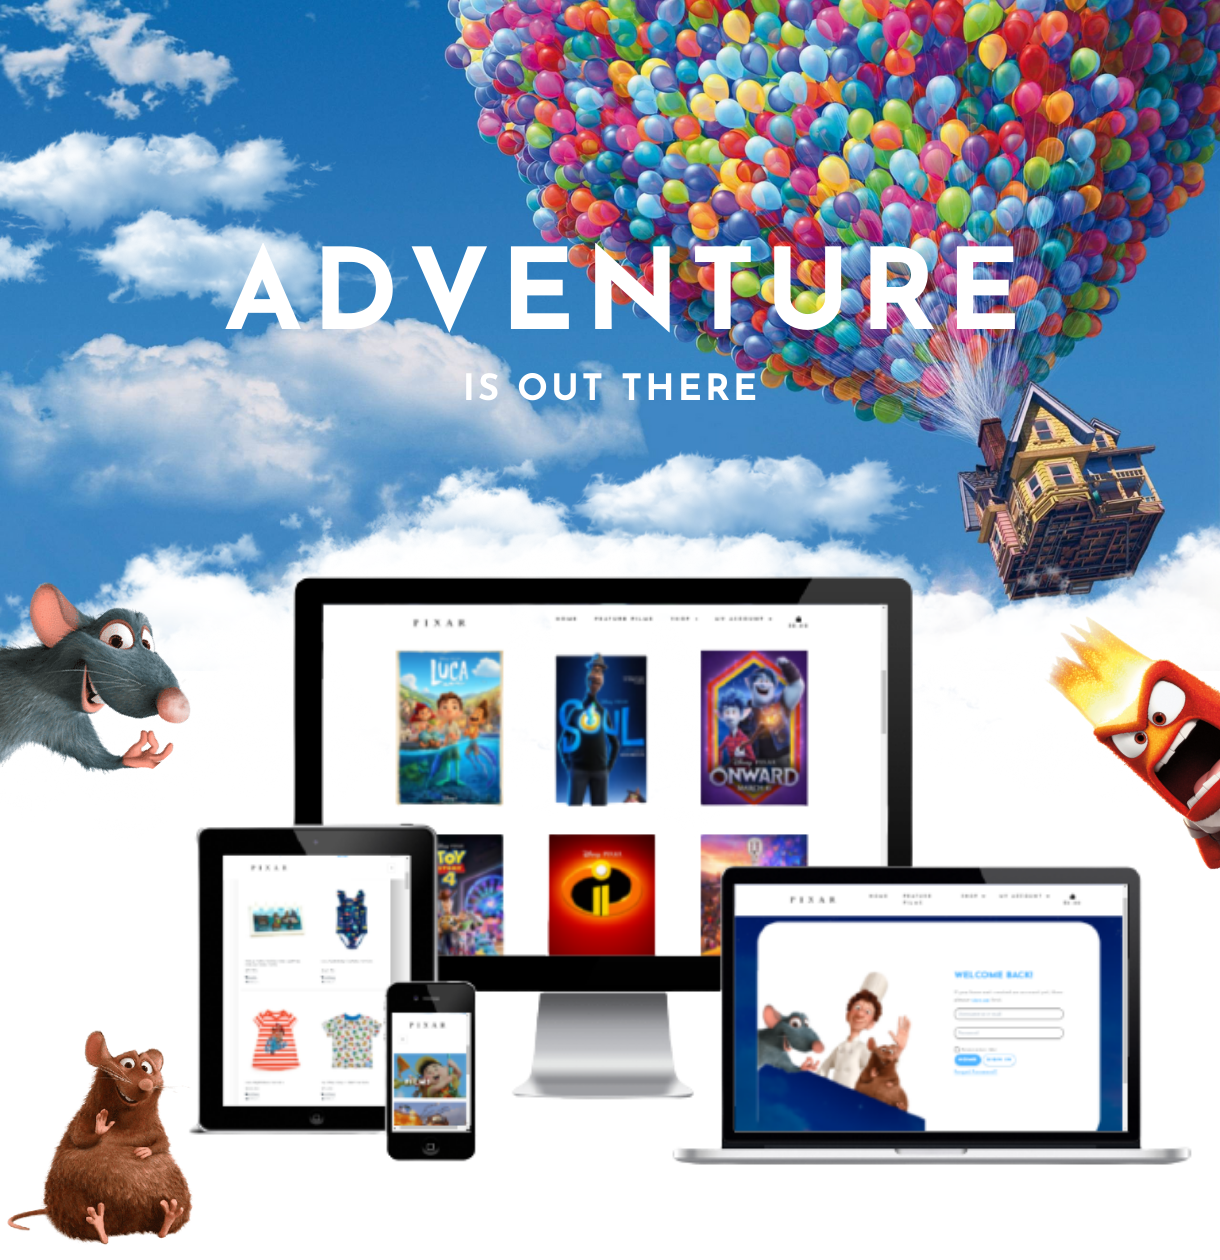
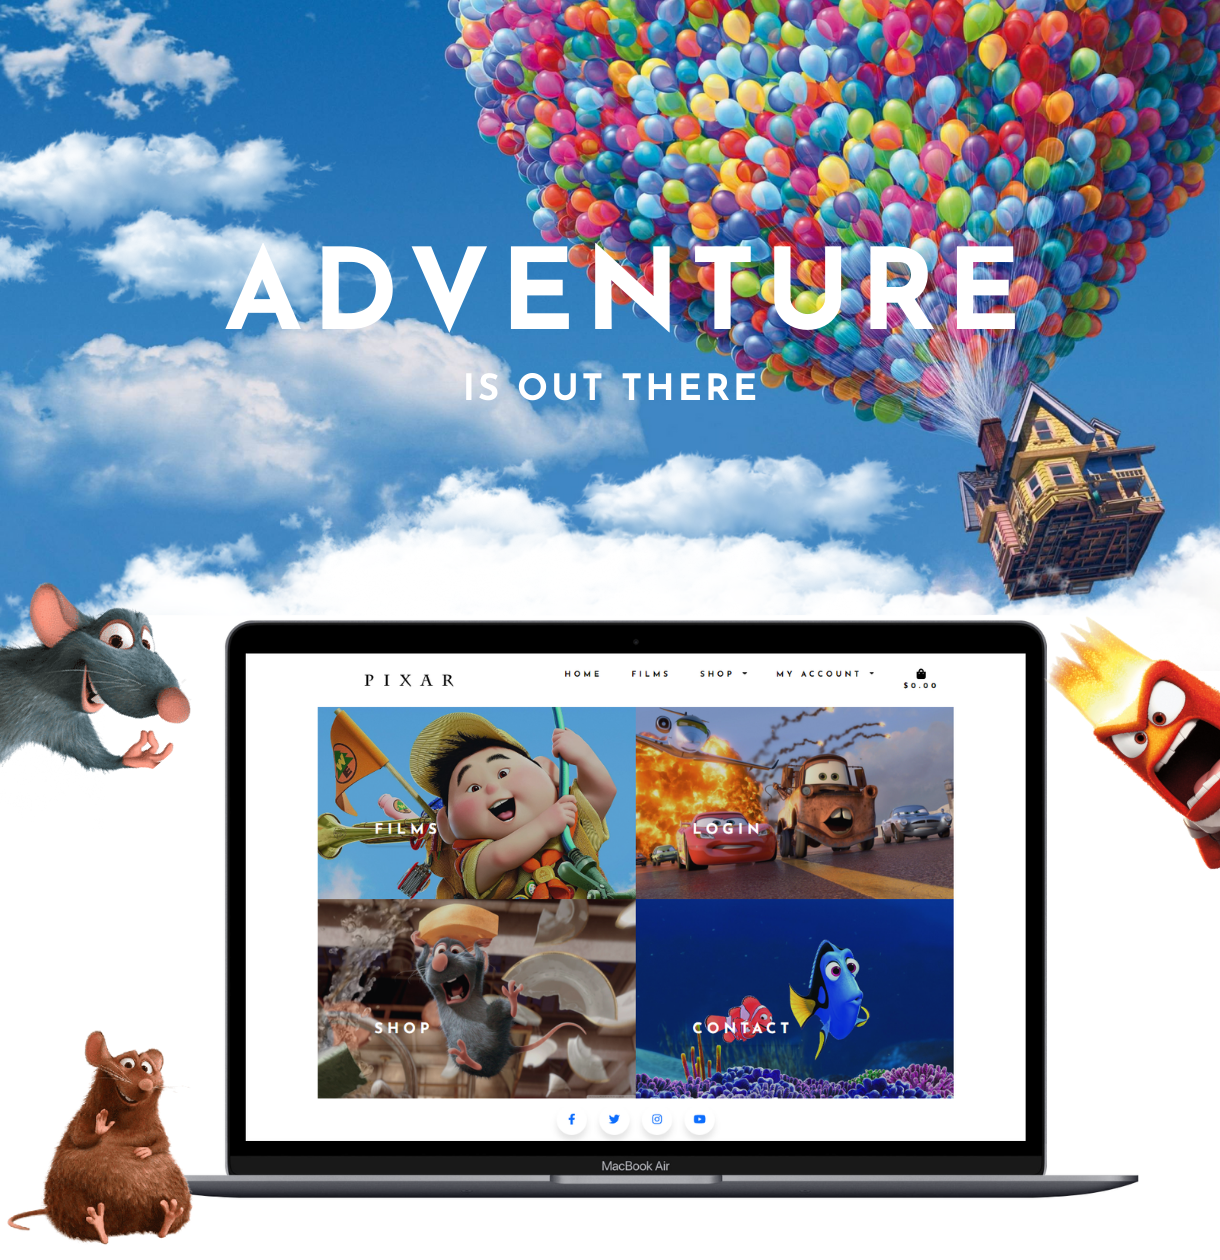
finished readme, added spell check corrections

Changed region(s): [[0.1557, 0.4333, 0.9656, 0.9595], [0.1246, 0.5571, 0.1557, 0.5881]]

diff --git a/bag/templates/bag/bag.html b/bag/templates/bag/bag.html
@@ -146,7 +146,6 @@
             {% endif %}
         </div>
     </div>
-</div>
 {% endblock %}
 </div>
 {% block postloadjs %}

diff --git a/README.md b/README.md
@@ -1,30 +1,9 @@
-MAIN IMAGE
+<img src="readme-docs/README-hero.png">
 
-[Live Site](https://pixar-ecommerce.herokuapp.com/)
 
 # About
 
-This website is based off of the one and only, Disney Pixar site. Ive always been a fan of Pixar's website as its simple, sleek and minimal while still bringing in their touch of magic and nostalgia from their films. 
-
-# Table of Contents
-
-
-1. - [User Experience](#UX)
-        - [The Strategy Plane](##The-Strategy-Plane)
-        - [User Stories](###User-Stories)
-    
-    ii. [The Scope Plane](## The Scope Plane)
-    iii. [The Structure Plane](## The Structure Plane)
-    iv. [The Skeleton Plane](## The Skeleton Plane)
-        - [Wireframes]()
-    v. [The Surface Plane](## The Surface Plane)
-        - [Mockups]()
-        - [Color Scheme](### Color Scheme)
-        - [Typography](### Typography)
-
-2. [Features](# Features)
-    - [Features Accross The Site](## Features Accross The Site)
-    - [Features Specific To Pages](## Features Specific To Pages)
+This website is based off of the one and only, Disney Pixar site. Ive always been a fan of Pixar's website as its simple, sleek and minimal while still bringing in their touch of magic and nostalgia from their films. The [Live Site](https://pixar-ecommerce.herokuapp.com/) can be viewed here.
 
 
 # The Strategy Plane
@@ -43,7 +22,7 @@ Pixar's film taget audience are very wide as its a universal studio that everyon
 
 As part of the planning process for the strategy plane, i find it helpful to plan out which features are of most importance to include in the project on a small scale of 1-3 (3 being the most important.) By doing this technique, i am able to focus more on the higher ranked features and work my way down the table.
 
-FEATURES IMAGE
+<img src="readme-docs/features.png">
 
 ## User Stories
 
@@ -74,12 +53,11 @@ FEATURES IMAGE
     - Delete items that are no longer for sale.
 
 ## The Scope Plane
-- ### The minimal Product for my project is an e-commerce site with the following features:
+- ### The minimal end Product for my project is an e-commerce site with the following features:
     - A payement system
     - A profile page
     - A products page
     - Authorization
-- Additional Features can be seen in the [Features]() section.
 
 ## The Structure Plane
 The structure of my site is outlined below.
@@ -122,13 +100,13 @@ The structure of my site is outlined below.
     - The profile.html template displays the user's profile to the user. It contain their saved delivery details and order history. This can only be seen by someone who has registered for an account.
     #### Profile Model - securely stores information on each user. This can be used in checkout to prefill the checkout form.
         user = models.OneToOneField(User, on_delete=models.CASCADE)
-    default_phone_number = models.CharField(max_length=20, null=True, blank=True)
-    default_street_address1 = models.CharField(max_length=80, null=True, blank=True)
-    default_street_address2 = models.CharField(max_length=80, null=True, blank=True)
-    default_town_or_city = models.CharField(max_length=40, null=True, blank=True)
-    default_county = models.CharField(max_length=80, null=True, blank=True)
-    default_postcode = models.CharField(max_length=20, null=True, blank=True)
-    default_country = CountryField(blank_label='Country', null=True, blank=True)
+        default_phone_number = models.CharField(max_length=20, null=True, blank=True)
+        default_street_address1 = models.CharField(max_length=80, null=True, blank=True)
+        default_street_address2 = models.CharField(max_length=80, null=True, blank=True)
+        default_town_or_city = models.CharField(max_length=40, null=True, blank=True)
+        default_county = models.CharField(max_length=80, null=True, blank=True)
+        default_postcode = models.CharField(max_length=20, null=True, blank=True)
+        default_country = CountryField(blank_label='Country', null=True, blank=True)
 
 - ### Contact app 
     #### HTML files
@@ -205,7 +183,7 @@ The structure of my site is outlined below.
 </details>
 <details>
   <summary>Add product(Admin) </summary>
-  <img src="readme-docs/add.png">
+  <img src="readme-docs/Add.png">
 </details>
 <details>
   <summary>Checkout </summary>
@@ -219,7 +197,9 @@ The structure of my site is outlined below.
   <summary>Bag</summary>
   <img src="readme-docs/bag.png">
 </details>
-    
+
+ ---   
+
 ## Mockups
     
 <details>
@@ -252,7 +232,7 @@ The structure of my site is outlined below.
 </details>
 <details>
   <summary>Product Details</summary>
-  <img src="readme-docs/product-details-m.png">
+  <img src="readme-docs/product details-m.png">
 </details>
 <details>
   <summary>Add Product(Admin)</summary>
@@ -264,7 +244,7 @@ The structure of my site is outlined below.
 </details>
 <details>
   <summary>Checkout Success</summary>
-  <img src="readme-docs/checkout-success-m.png">
+  <img src="readme-docs/checkout success-m.png">
 </details>
 <details>
   <summary>Bag</summary>
@@ -275,17 +255,17 @@ The structure of my site is outlined below.
 - ## Color Scheme
   - The color scheme chosen for this project is simple, branching from one primary color: Blue. As the site mainly consists of vibrant images, i thought sticking to various shades of blue would go veyr nicely.
     
-    COLOR SCHEME IMAGE
+    <img src="readme-docs/color2.png">
 
 - ## Typography
   - This site uses a variation of two different fonts: Josephin sans & sans-serif.  I chose these two fonts as i took time to compare the fints used on the Pixar site and find something a little similar. I found that when adding letter spacing to these two fonts, it enahnced the simplicity of the site while still appearing similar to the Pixar site.
 
-  TYPO IMAGE
+    <img src="readme-docs/typo.png">
 
 - ## Imagery
   - Imagery is a huge part of the site and is critical to the users as Pixar fans are most appreciative of the clean and shiny graphics. Its used for both informative and entertainmenet purposes as images are displayed in item cards on the products template to allow users to visually engage with items and decide if they are interested to purchase. Images are also shown for aesthetic to bring in the magical and nostalgic feel that Pixar films have.Background images are used a lot throughout the site, the main one being Disney's famous blue sky thats used for their logo and intro to their films. I felt that by encourporating this in images, (as Pixar is one of Disney's brances) and making the colours a part of my site, it enhances the magical, nostalgic theme that my site gives off. I have made sure encorporated atleast one image on every page to keep the feel ongoing throught the site. Product images have been taken from the Disney Site and others have been created and edited through Canva.
 
-  IMAGERY IMAGE
+    <img src="readme-docs/imagery.png">
 
 # Features
 ## Common Features Across All Pages
@@ -575,7 +555,7 @@ The structure of my site is outlined below.
 # Compatibilty
 - Browser Compatibility:
 
-TABLE IMAGE**
+  <img src="readme-docs/table.png">
 
 - The devices that were used during testing were: iPad pro, iPhone 12, iPhone 12 mini, windows desktops with 27" screens, Dell Laptop and vaious andriod devices.
 - Responsively was used to view my site from vaious different devices simultaniousley, helping me spot errors. The different devices varied from  Galaxy Fold (280px) to large Desktop ViewPorts.
@@ -651,5 +631,129 @@ TABLE IMAGE**
         - The admin is able to delete products that are no longer availabe through the shop page by clicking on the 'delete' button bellow every product on the page.
 
 # Bugs
+## Identified Bugs
+  1. ### My toast messages were not appearing when adding items to the bag. 
+  <img src="readme-docs/toast-before.png">
+
+  - My messages were not being triggered for items with no sizes, meaning when items of clothing were added to the basket, no toasts were appearing.
+  - I added the following code in order for sized items to also trigger toasts: 
+
+            if size:
+            if item_id in list(bag.keys()):
+                if size in bag[item_id]['items_by_size'].keys():
+                    bag[item_id]['items_by_size'][size] += quantity
+                    messages.success(request, f'Updated size {size.upper()} {product.name} quantity to {bag[item_id]["items_by_size"][size]}')
+                else:
+                    bag[item_id]['items_by_size'][size] = quantity
+                    messages.success(request, f'Added size {size.upper()} {product.name} to your bag')
+            else:
+                bag[item_id] = {'items_by_size': {size: quantity}}
+                messages.success(request, f'Added size {size.upper()} {product.name} to your bag')
+        else:
+            if item_id in list(bag.keys()):
+                bag[item_id] += quantity
+                messages.success(request, f'Updated {product.name} quantity to {bag[item_id]}')
+            else:
+                bag[item_id] = quantity
+                messages.success(request, f'Added {product.name} to your bag')
+
+            
+  2. ### When i checkout a bag with items, the success message appears in the console and the payment goes through to stripe, but i get an error saying " 'AnonymousUser'   object is not iterable"
+
+        - I realised that within my view, i was not checking whether the user is authenticated when saving profile data. I added the following if statement to the code that fixed the bug: 
+
+        if request.user.is_authenticated:
+        profile = UserProfile.objects.get(user=request.user)
+        order.user_profile = profile
+        order.save()
+
+  3. ### When trying to push to Herkoku, i got the following error: 
+
+        main -> main (shallow update not allowed)
+        error: failed to push some refs to 'https://git.heroku.com/pixar-ecommerce.git'
+
+  - I then noticed that the Procfile wasnt matching the WSGI_APPLICATION value in settings.py:
+
+    <img src="readme-docs/proc.png">
+
+  - After changing up the typo to the correct matching spelling, the error was fixed.
+
+  4. ### My webhook handlers were failing with a 404 error and failed stripe webhooks
+      - I took a close look into the webhooks.py file and after some time, realised that the return statement in webhooks.py is causing the problem.With that return on line 37, the webhook handler never gets to process the webhook. There only needs to be a return response at the bottom of the file. Once removing this, the bug was fixed.
+
+       <img src="readme-docs/webhook.png">
+
+# Existing Bugs
+
+  - The quantity toggle button on the products details page can be changed through changing the HTML in the dev tools. E.g: the maximum amount a shopper can choose is 10, however this can be overwritten through the dev tools. This will be fixed in future versions.
+
+  - Website not loading on iamresponsive. I recieved an x-frame error and the site would not load.
+
+# Technologies used
+
+* [HTML](https://developer.mozilla.org/en-US/docs/Web/HTML)
+* [CSS](https://developer.mozilla.org/en-US/docs/Learn/CSS/First_steps/What_is_CSS)
+* [JavaScript](https://www.javascript.com/)
+* [Python](https://www.python.org/)
+* [Pip3](https://pip.pypa.io/en/stable/)- install packages to python
+* [Git](https://git-scm.com/)- version control
+* [GitHub](https://github.com/)- host project files
+* [Gitpod](https://www.gitpod.io/)- coding enviroment
+* [Django](https://www.djangoproject.com/)- main framework for project
+* [Heroku](https://id.heroku.com/login)- cloud platform
+* [Django Crispy forms](https://django-crispy-forms.readthedocs.io/en/latest/)- displays forms
+* [Stripe](https://stripe.com/gb) - used as secure payement system
+* [AWS](https://aws.amazon.com/) - Used to store static files
+* [Bootstrap 5](https://getbootstrap.com/) - Used for responsiveness
+* [Font Awsome](https://fontawesome.com/) - Used for icons such as footer
+* [Figma](https://www.figma.com/) - Used for mockups ad wireframes
+* [Canva](https://www.canva.com/en_gb/) - Used for created custom images
+
+# Deployment
+
+1. Within the project repository, You can either:
+    - Download the files by clicking on 'Code' and then 'Download Zip'
+
+      <img src="readme-docs/zip.png">
+
+    ### OR..
+
+    - Clone the repository by running the following command from your IDE
+
+          gh repo clone laila-ba/pixar-eccomerce
+    
+2. After doing this, within your chosen IDE, make sure you are inside the project folder by using 
+
+           cd The/Project/Folder/Path
+
+3. Activate virtual enviroment:
+    - Python's venv source 
+            .venv/bin/activate
+    
+    - Using Windows and MacOS, .venv is the name you gave previously
+
+4. Intsall all reqauirements from requirements.txt file
+
+          pip3 install -r requirements.txt
+  - After thhis, create a file named 'env.py' to store all enviroment variables like so:
+
+            os.environ.setdefault('SECRET_KEY', '<your-variable-goes-here>')
+            os.environ.setdefault('DEVELOPMENT', '1')
+            os.environ.setdefault('ALLOWED_HOSTS', '<your-variable-goes-here>')
+            os.environ.setdefault('STRIPE_PUBLIC_KEY', '<your-variable-goes-here>')
+            os.environ.setdefault('STRIPE_SECRET_KEY', '<your-variable-goes-here>')
+            os.environ.setdefault('STRIPE_WH_SECRET_CH', '<your-variable-goes-here>')
+            os.environ.setdefault('STRIPE_WH_SECRET_SUB', '<your-variable-goes-here>')
+  - Lastly run the app with:
+
+             python3 manage.py runserver
+
+# Credits
+- [neumorphism-generator](https://hype4.academy/tools/neumorphism-generator) for cards used in the project
+- Product Images taken from [Disney](https://www.shopdisney.co.uk/)
+
+
+
+
 
 
